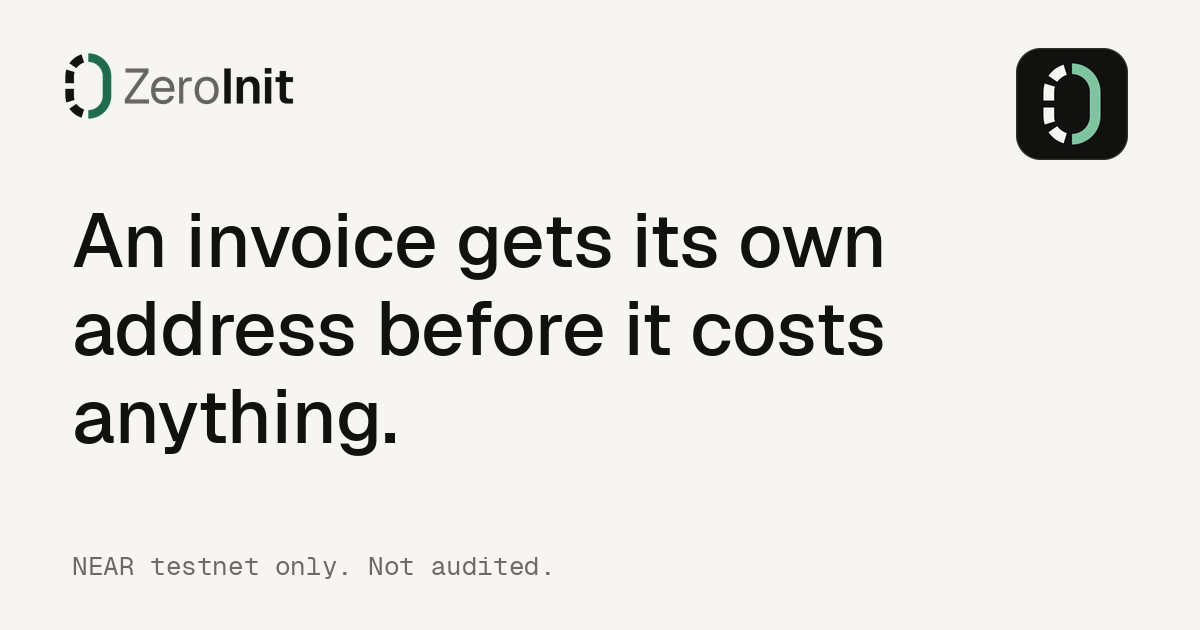
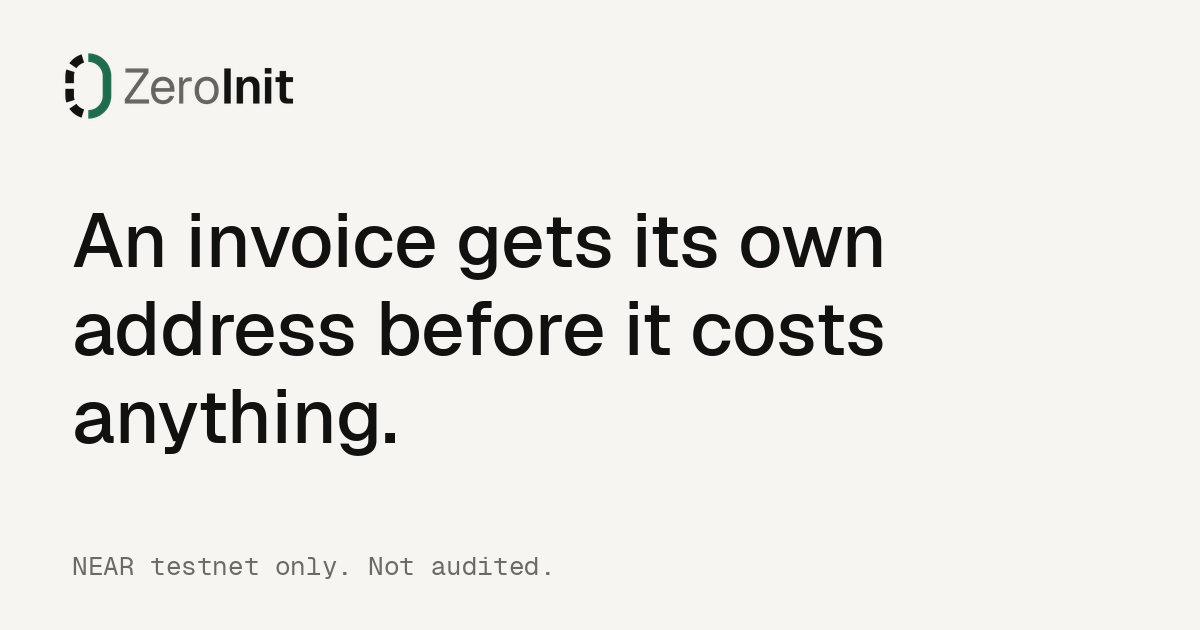
Site: header fits narrow phones, npm commands, share image without the mark
At 320 to 430px the header links did not fit next to the logo, so the
logo was squeezed (to nothing at 320px) and the links ran into the right
margin. The logo now keeps its size; below 26rem the header shows two
links in a slightly smaller size (the hero buttons already link to the
replay), and the nav scrolls on its own if it ever overflows instead of
widening the page.

Adds a short "Try it from npm" block next to "Run it locally": the
read-only verify command and the MCP server command for
@erhantrk/zeroinit, with a link to the npm page. Commands wrap only
between words.

The share image keeps only the wordmark.

Changed region(s): [[0.8325, 0.0603, 0.9558, 0.2714]]

diff --git a/site/src/styles/global.css b/site/src/styles/global.css
@@ -91,13 +91,23 @@ code, pre, .mono { font-family: var(--font-mono); font-size: 0.875rem; font-feat
 .status strong { color: var(--ink); font-weight: 500; }
 .site-head { position: sticky; top: 0; z-index: 30; background: var(--paper); border-bottom: 1px solid var(--hairline); }
 .site-head .bar { display: flex; justify-content: space-between; align-items: center; gap: 1rem; min-height: var(--head-h); }
-.site-head .name { display: inline-flex; align-items: center; min-height: 2.75rem; text-decoration: none; }
+.site-head .name { display: inline-flex; align-items: center; min-height: 2.75rem; text-decoration: none; flex: none; }
 .site-head .name .logo { height: 1.75rem; width: auto; display: block; }
-.site-head nav { display: flex; gap: clamp(0.5rem, 2vw, 1.25rem); white-space: nowrap; font-size: var(--t-small); font-weight: 500; }
+/* the logo keeps its size; if the links still do not fit, the nav scrolls on its own instead of the page */
+.site-head nav { display: flex; gap: clamp(0.5rem, 2vw, 1.25rem); white-space: nowrap; font-size: var(--t-small); font-weight: 500; min-width: 0; overflow-x: auto; scrollbar-width: none; }
+.site-head nav::-webkit-scrollbar { display: none; }
 .site-head nav a { display: inline-flex; align-items: center; min-height: 2.75rem; text-decoration: none; color: var(--muted); padding: 0 0.35rem; border-bottom: 1px solid transparent; transition: color 200ms var(--ease), border-color 200ms var(--ease); }
 .site-head nav a:hover { color: var(--ink); border-bottom-color: var(--hairline-strong); }
 .site-head nav a[aria-current] { color: var(--ink); border-bottom-color: var(--ink); }
 @media (max-width: 40rem) { .site-head nav .nav-opt { display: none; } }
+/* narrow phones: the hero buttons already link to the replay, so the header keeps two links */
+@media (max-width: 26rem) {
+  .site-head .bar { gap: 0.75rem; }
+  .site-head .name .logo { height: 1.5rem; }
+  .site-head nav { font-size: var(--t-label); }
+  .site-head nav a { padding: 0 0.25rem; }
+  .site-head nav .nav-opt-narrow { display: none; }
+}
 
 /* buttons */
 .btn { display: inline-flex; align-items: center; justify-content: center; font: 500 var(--t-small) / 1 var(--font-text); min-height: 2.75rem; padding: 0 1.25rem; border: 1px solid var(--ink); border-radius: var(--radius); background: transparent; color: var(--ink); cursor: pointer; text-decoration: none; transition: background-color 200ms var(--ease), color 200ms var(--ease), border-color 200ms var(--ease); }
@@ -333,8 +343,12 @@ button.replay-line:hover { background: rgba(246, 245, 241, 0.07); }
 /* run it */
 .run { margin-top: 3rem; display: grid; gap: 0.75rem; max-width: 46rem; }
 .run .note { margin-top: 0.25rem; }
+.run-step { font-size: var(--t-small); color: var(--muted); }
+.run-step + .cmd-card { margin-top: -0.25rem; }
+.cmd-card + .run-step { margin-top: 0.5rem; }
 .cmd-card { display: flex; align-items: center; gap: 1rem; background: var(--ink); color: var(--paper); border-radius: var(--radius); padding: 0.75rem 0.75rem 0.75rem 1.25rem; }
 .cmd-card code { flex: 1; min-width: 0; font-size: 0.9375rem; line-height: 1.5; white-space: pre-wrap; overflow-wrap: anywhere; }
+.cmd-card .nb { white-space: nowrap; }
 .link-row { margin-top: 1.5rem; }
 
 footer { border-top: 1px solid var(--hairline); padding-block: 2.5rem 4rem; color: var(--muted); font-size: var(--t-small); }

diff --git a/site/scripts/make-og.py b/site/scripts/make-og.py
@@ -20,7 +20,4 @@ for line in ["An invoice gets its own", "address before it costs", "anything."]:
     d.text((72, y), line, font=med, fill=INK)
     y += 88
 d.text((72, 548), "NEAR testnet only. Not audited.", font=mono, fill=MUTED)
-# the mark at the top right
-mark = Image.open(root.parent / "docs/img/mark.png").convert("RGBA").resize((112, 112), Image.LANCZOS)
-img.paste(mark, (W - 72 - 112, 48), mark)
 img.save(root / "public/og.png", optimize=True)
